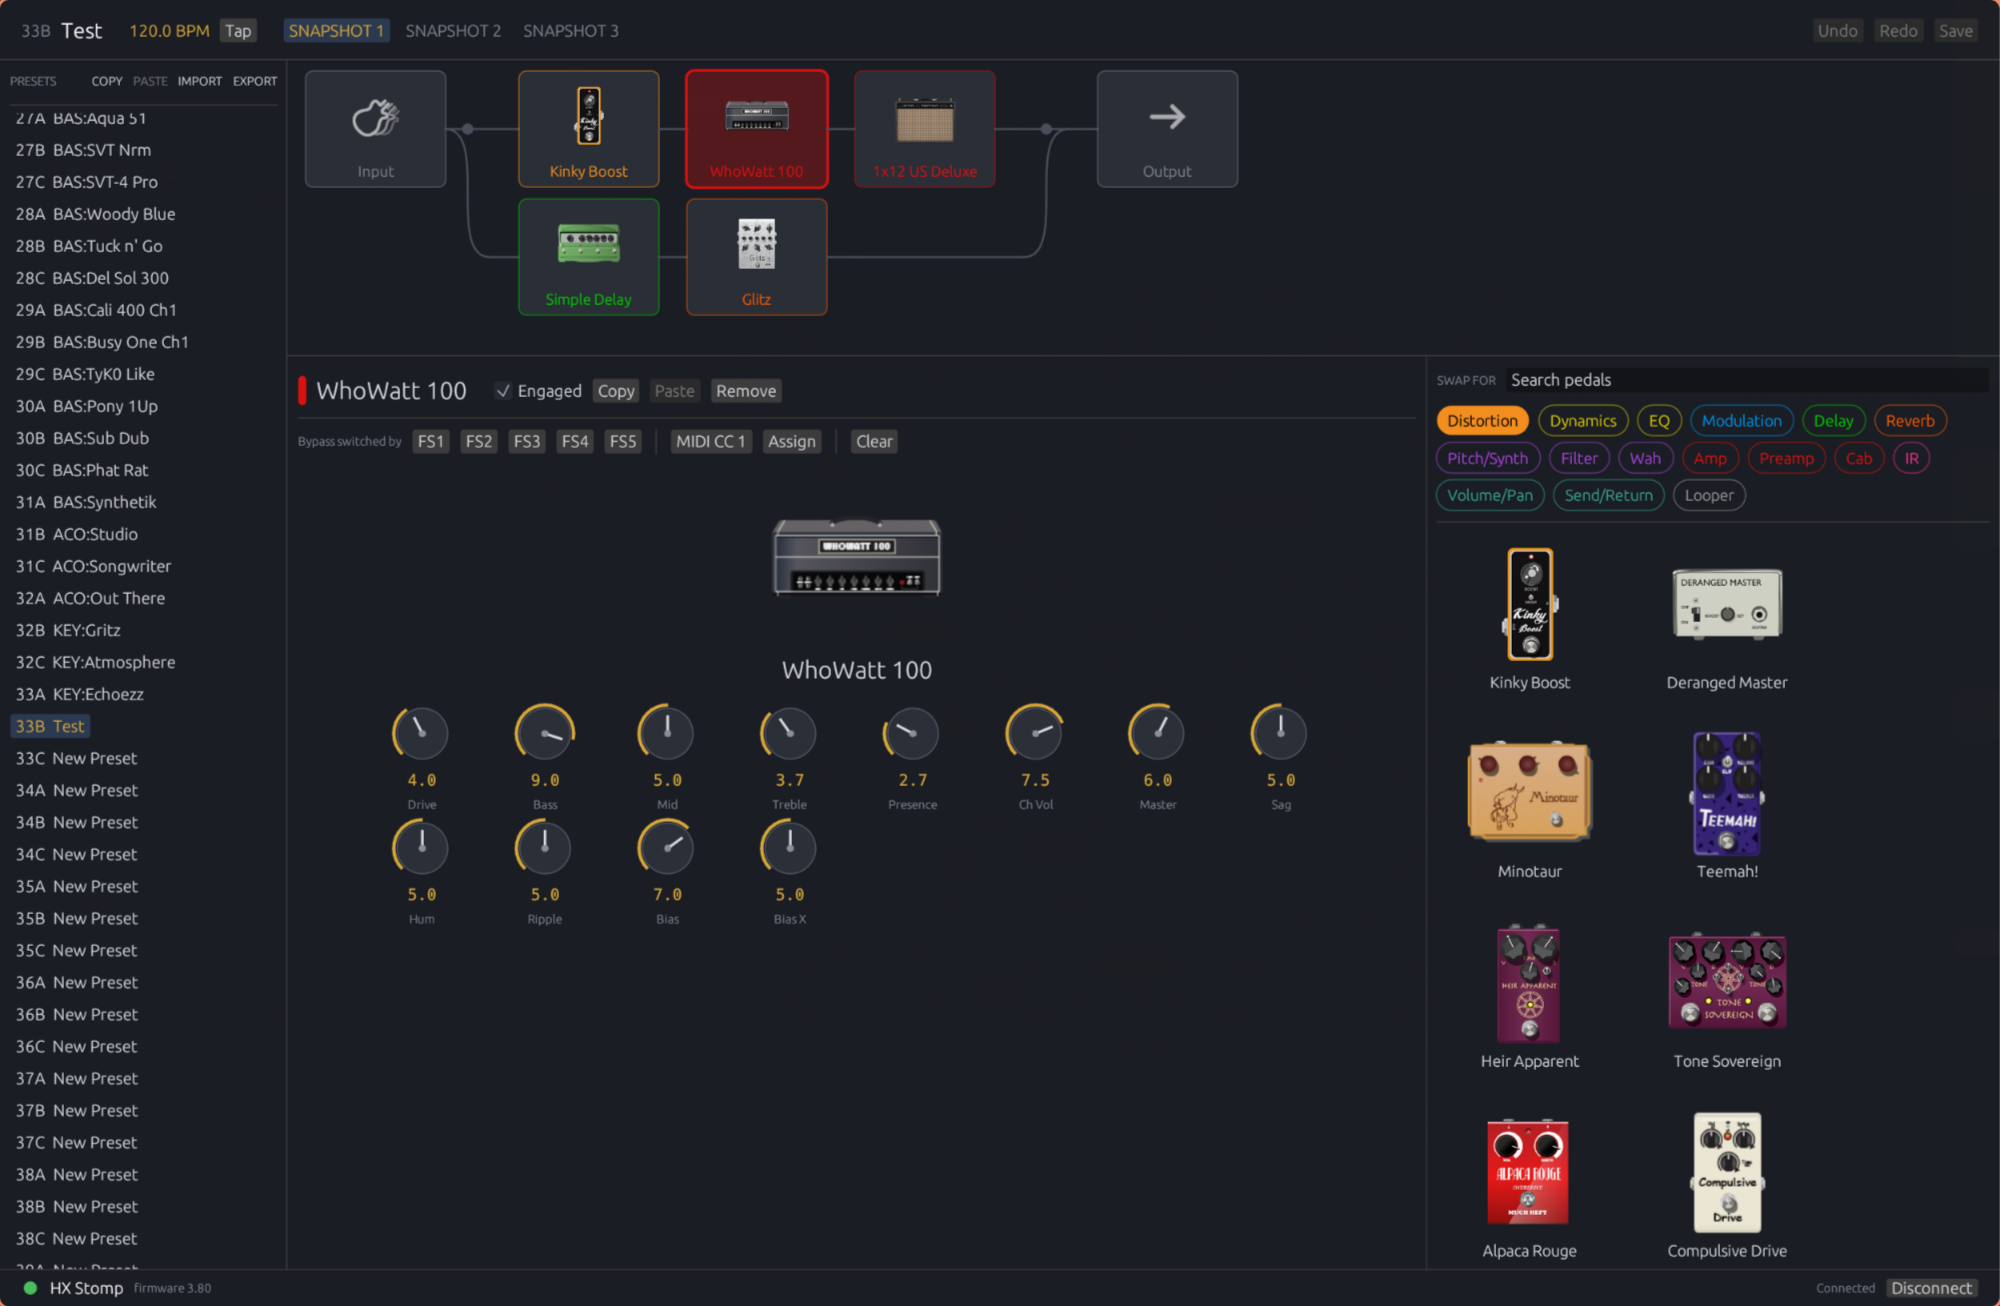
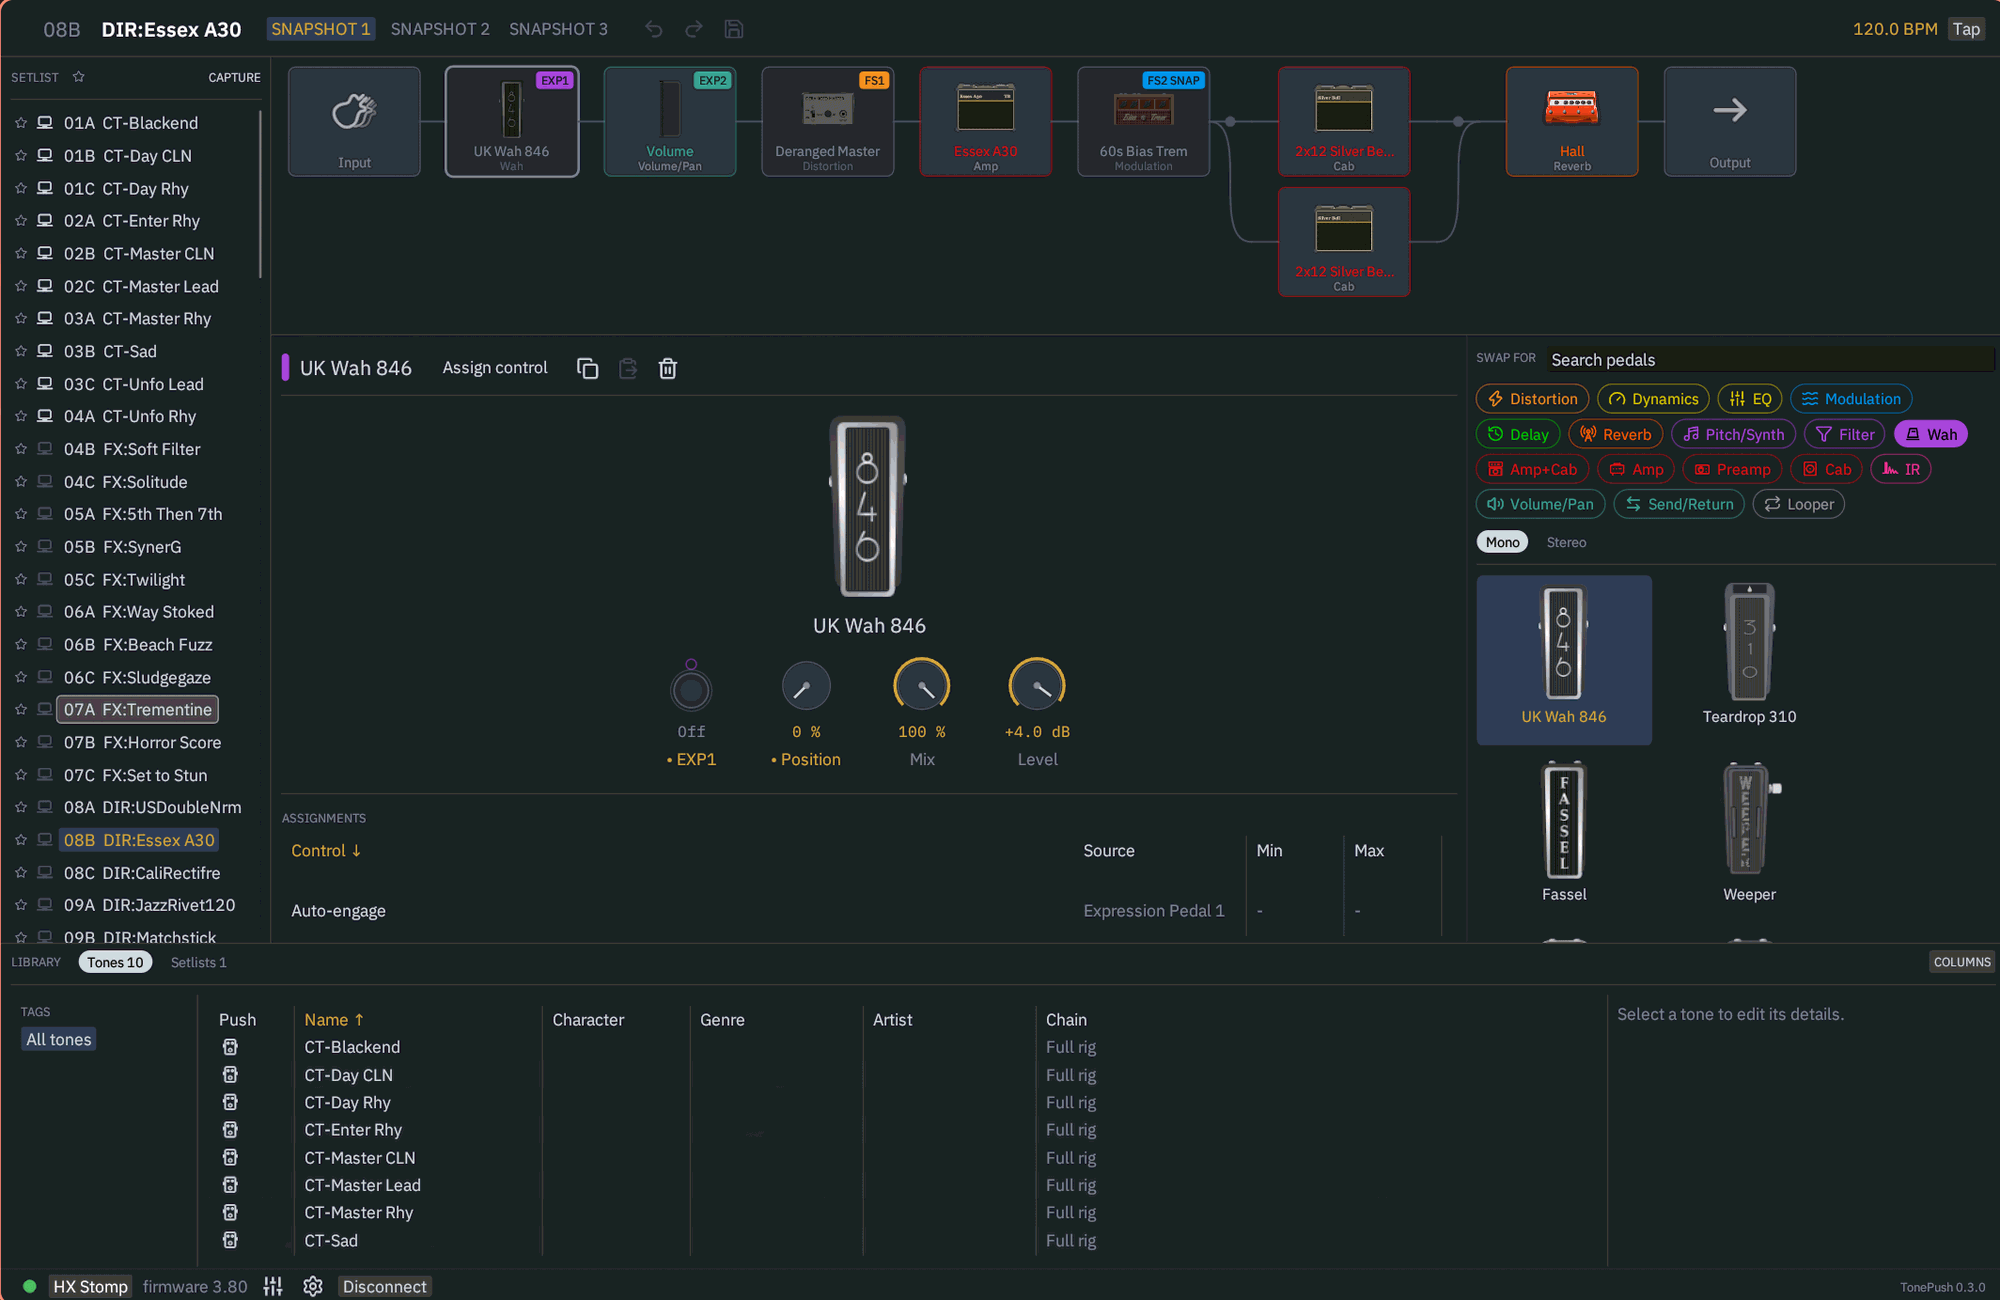
Ask crates.io in a way it will answer, and show the program by its own name
crates.io answers 403 to a request that sends no User-Agent, and `curl -sSf`
turns that into a non-zero exit indistinguishable from "not published". Both
checks in the release were built on that: the one before publishing never found
anything already there, and the one after never found anything at all. The
first release published hx-proto and hx-catalog and then declared them missing
one second later, which skipped the gem.

Two faults, then. The header is one. The other is that the index lags the
upload by a few seconds, so asking once and believing the answer was never
going to work; it waits now, up to five minutes. Both checks read from one
sourced helper, because two copies of this question are how they came to
disagree.

The screenshot is the program under its own name: the title bar, the version in
the corner, and the column that now says Push. Taken against the HX Stomp on
firmware 3.80, and quantised to a palette, which the flat UI colours survive
intact at a fifth of the bytes. The alt text describes the chain that is
actually in it.

diff --git a/docs/_guide/what-is-tonepush.md b/docs/_guide/what-is-tonepush.md
@@ -10,7 +10,7 @@ The Line 6 HX Stomp is a small box holding a large amp-and-effects rig. Editing 
 
 TonePush is an open-source editor for HX-family devices. It talks the same USB protocol HX Edit talks, edits the same scratch buffer, and runs on Linux, macOS, and Windows. Behind it sits the protocol itself, reverse-engineered from USB captures and written up in [PROTOCOL.md](https://github.com/crmne/tonepush/blob/main/PROTOCOL.md), so this editor is not the only thing that can ever be built on it.
 
-![TonePush editing a preset on an HX Stomp](/screenshot.png)
+![TonePush editing a preset on an HX Stomp: a wah, distortion, amp and cab along the main line with a second cab on a parallel branch, the wah's knobs and its expression pedal assignment below, and the library along the bottom](/screenshot.png)
 
 ## What it does
 

diff --git a/README.md b/README.md
@@ -7,7 +7,7 @@ An open-source editor for Line 6 HX-family devices: a cross-platform GUI, a
 scriptable CLI, and the reverse-engineered protocol documentation behind both.
 Built and tested against an HX Stomp on firmware 3.80.
 
-![TonePush editing a preset on an HX Stomp](docs/screenshot.png)
+![TonePush editing a preset on an HX Stomp: a wah, distortion, amp and cab along the main line with a second cab on a parallel branch, the wah's knobs and its expression pedal assignment below, and the library along the bottom](docs/screenshot.png)
 
 Nothing here is derived from Line 6 source code. The protocol was reconstructed
 by observing USB traffic; see [PROTOCOL.md](PROTOCOL.md) for the write-up,

diff --git a/docs/index.md b/docs/index.md
@@ -19,9 +19,9 @@ hero:
       link: https://github.com/crmne/tonepush
   image:
     src: /screenshot.png
-    alt: "TonePush editing a preset on an HX Stomp: a drive, amp and cab on the main line with a delay and reverb on a parallel branch"
+    alt: "TonePush editing a preset on an HX Stomp: a wah, distortion, amp and cab along the main line with a second cab on a parallel branch, the wah's knobs and its expression pedal assignment below, and the library along the bottom"
     width: 2000
-    height: 1306
+    height: 1300
 
 features:
   - icon: 🎛
